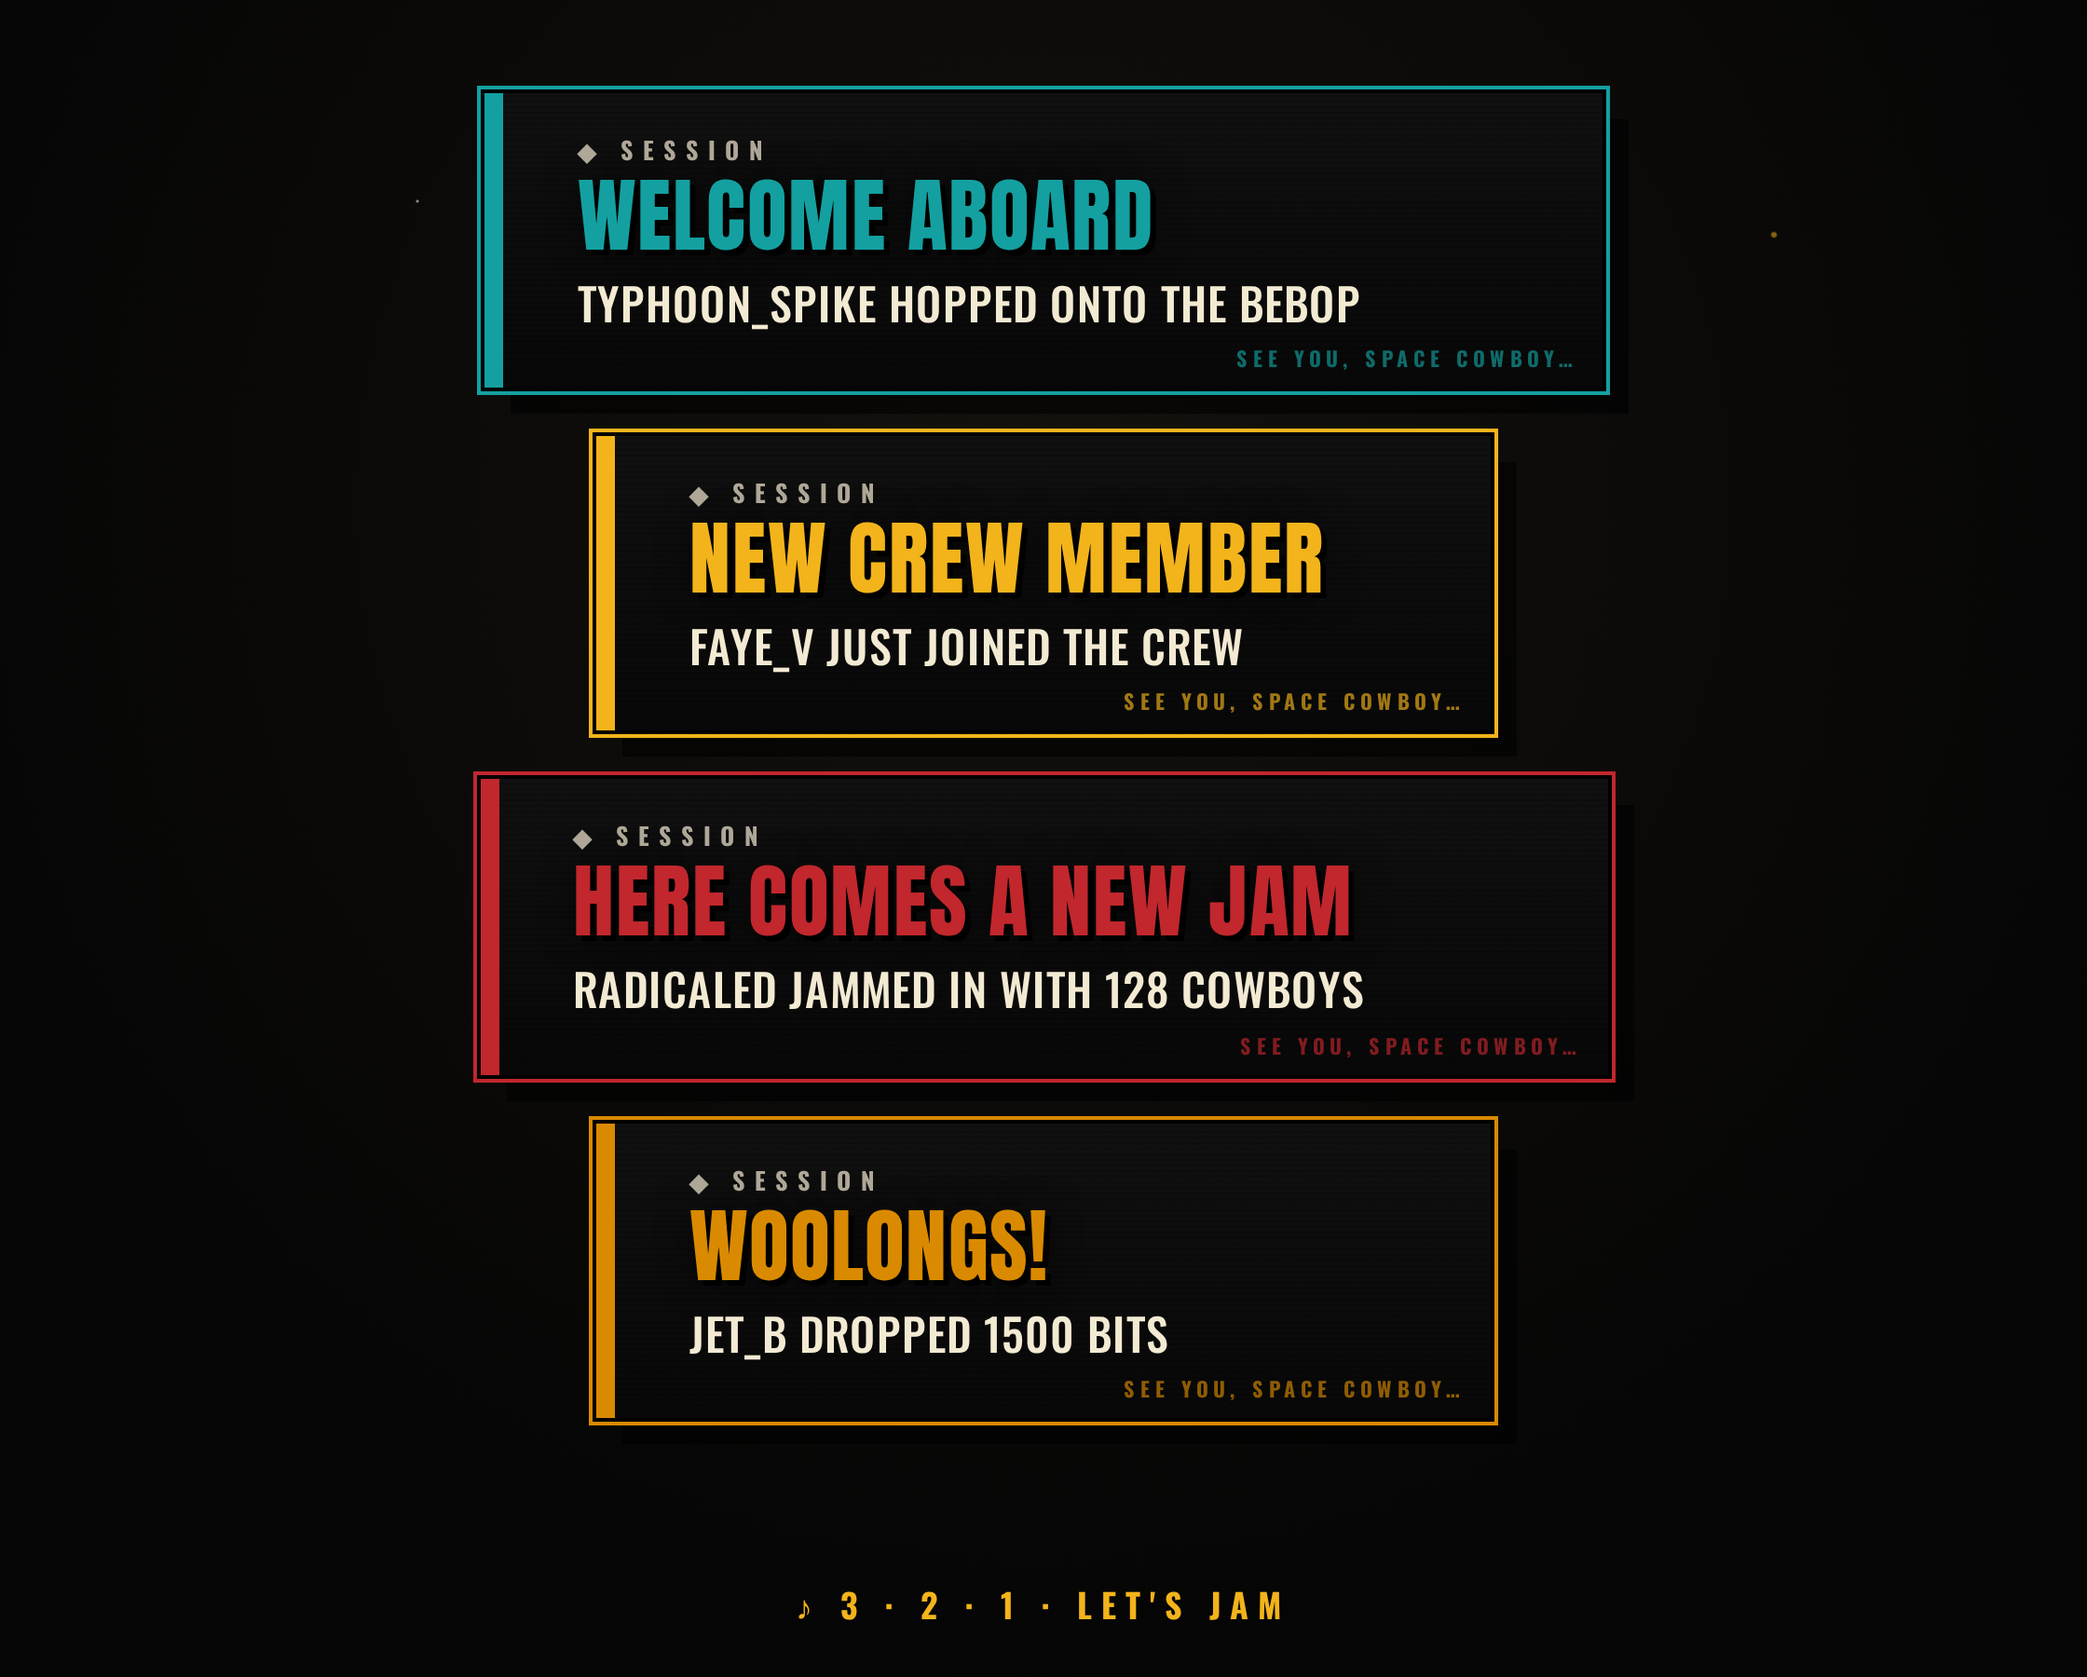
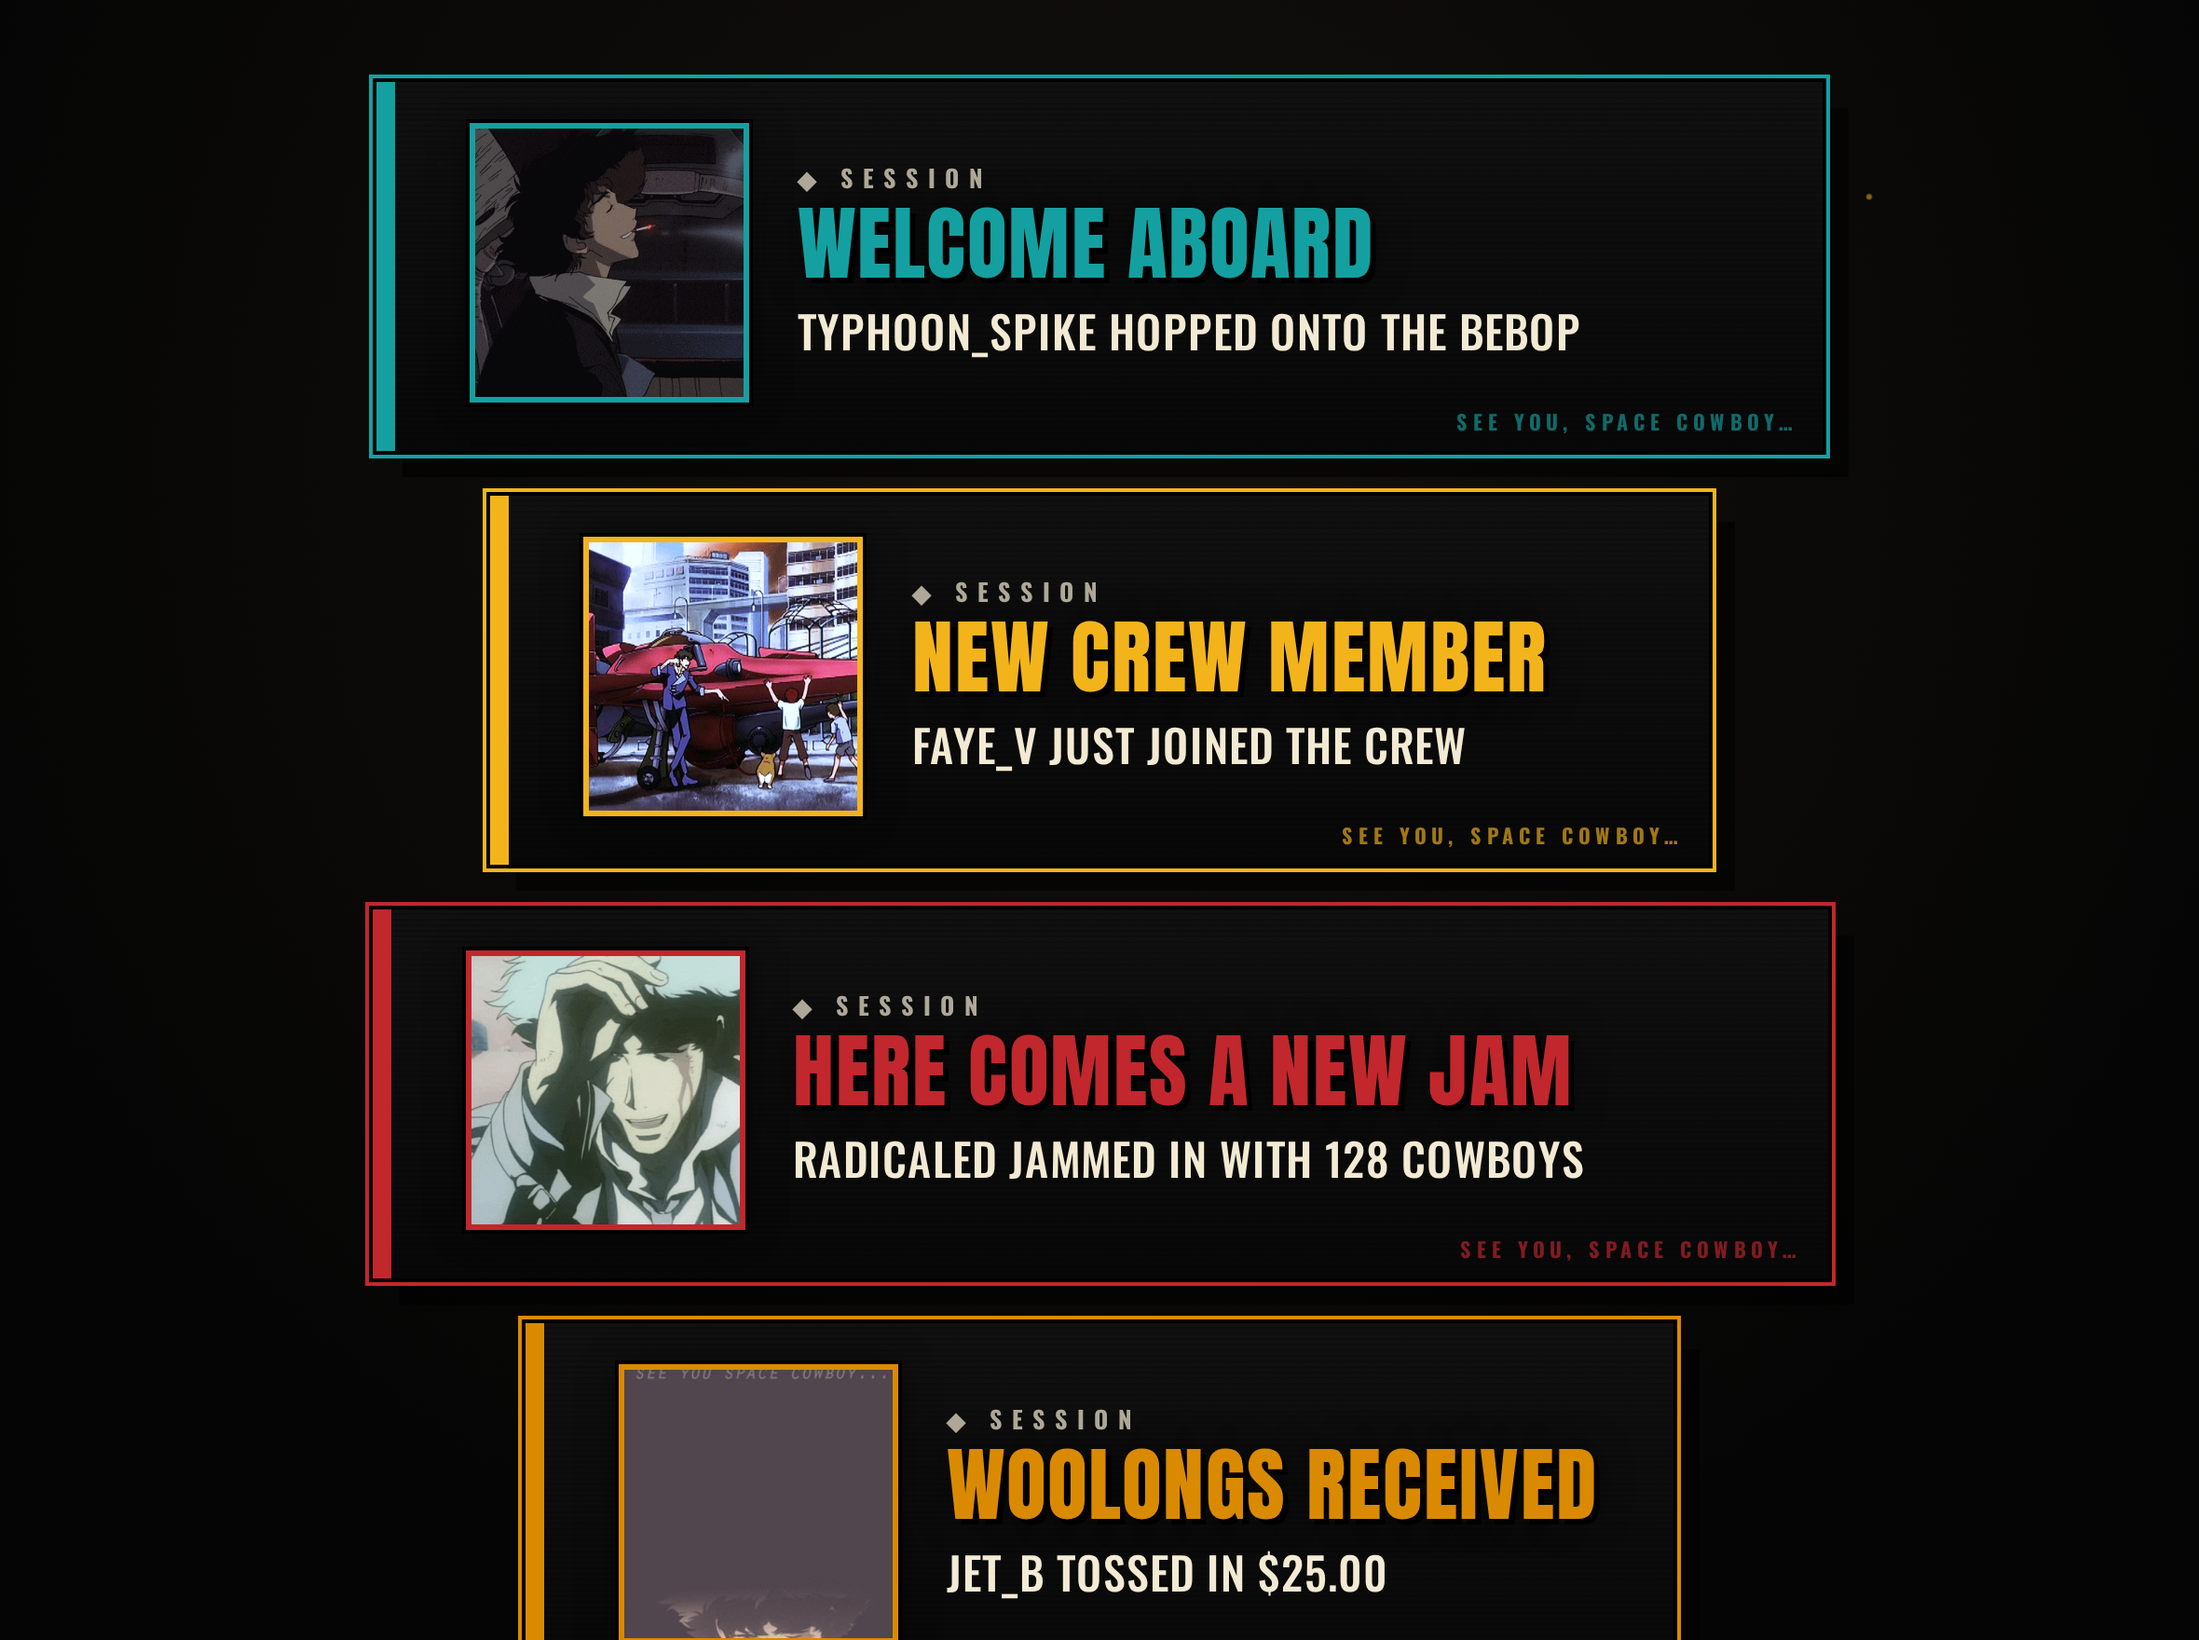
Add Cowboy Bebop GIF to each alert
- Per-alert gif field in config (hotlinked Giphy clips; no footage bundled)
- Render gif beside the title card, framed in the accent color
- Thematic mapping: Spike/lighter=follow, crew+ship=sub, whatever-happens=resub,
  Edward=gift, Spike-at-bar=bits, smirk=raid, 'see you space cowboy'=donation
- gifs/README + README copyright note; document swapping in local files
- Refresh preview.png

Changed region(s): [[0.1562, 0.0312, 0.8438, 1.0]]

diff --git a/obs-twitch-alerts/js/config.js b/obs-twitch-alerts/js/config.js
@@ -62,47 +62,59 @@ window.ALERT_CONFIG = {
    * ---------------------------------------------------------------------- */
   // Cowboy Bebop palette:
   //   saffron #f3b41b · blood red #c1272d · teal #14a0a0 · gold #d98a00
+  //
+  // gif: a Cowboy Bebop clip shown on the card. These default to hotlinked
+  //   Giphy URLs (no copyrighted footage stored in this repo). To use your
+  //   own files instead, drop them in the /gifs folder and set e.g.
+  //   gif: "gifs/follow.gif". Set gif: "" for no image.
   alerts: {
     follow: {
       title: "Welcome Aboard",
       message: "{name} hopped onto the Bebop",
       color: "#14a0a0",            // teal
+      gif: "https://media.giphy.com/media/4ilFRqgbzbx4c/giphy.gif", // Spike + lighter
       sound: "follow.mp3",
     },
     sub: {
       title: "New Crew Member",
       message: "{name} joined the crew",
       color: "#f3b41b",            // saffron
+      gif: "https://media.giphy.com/media/4MxLhxhOqCqYw/giphy.gif", // crew + ship
       sound: "sub.mp3",
     },
     resub: {
       title: "Still Rollin'",
       message: "{name} rode along {amount} months",
       color: "#f3b41b",            // saffron
+      gif: "https://media.giphy.com/media/QgwoSMw1mbpADGy5Gt/giphy.gif", // "whatever happens, happens"
       sound: "sub.mp3",
     },
     giftSub: {
       title: "Bounty Shared",
       message: "{name} gifted {amount} tickets aboard",
       color: "#c1272d",            // blood red
+      gif: "https://media.giphy.com/media/udhngZK2IFTc4/giphy.gif", // Edward dancing
       sound: "sub.mp3",
     },
     cheer: {
       title: "Woolongs!",
       message: "{name} dropped {amount} bits",
       color: "#d98a00",            // amber gold
+      gif: "https://media.giphy.com/media/5gK1hvwoutPnG/giphy.gif", // Spike at the bar
       sound: "cheer.mp3",
     },
     raid: {
       title: "Here Comes A New Jam",
       message: "{name} jammed in with {amount} cowboys",
       color: "#c1272d",            // blood red
+      gif: "https://media.giphy.com/media/b21HcSrrBu8pi/giphy.gif", // Spike smirk
       sound: "raid.mp3",
     },
     donation: {
       title: "Woolongs Received",
       message: "{name} tossed in {amount}",
       color: "#d98a00",            // amber gold
+      gif: "https://media.giphy.com/media/Te9ImVwQGht1S/giphy.gif", // "See you space cowboy"
       sound: "donation.mp3",
     },
   },

diff --git a/obs-twitch-alerts/css/style.css b/obs-twitch-alerts/css/style.css
@@ -57,9 +57,12 @@ html, body {
 .alert-card {
   --accent: var(--bb-yellow);
   position: relative;
+  display: flex;
+  align-items: center;
+  gap: 26px;
   min-width: 480px;
   max-width: 82vw;
-  padding: 24px 40px 30px;
+  padding: 22px 40px 26px;
   background:
     linear-gradient(180deg, rgba(17,16,16,.97), rgba(7,7,7,.97));
   color: var(--bb-cream);
@@ -107,6 +110,21 @@ html, body {
   color: var(--accent);
   opacity: .65;
 }
+
+/* the Cowboy Bebop clip */
+.alert-gif {
+  position: relative;
+  z-index: 1;
+  width: 150px;
+  height: 150px;
+  flex-shrink: 0;
+  object-fit: cover;
+  border: 3px solid var(--accent);
+  box-shadow: 0 0 0 2px #000, 0 0 16px rgba(0,0,0,.6);
+  background: #000;
+}
+
+.alert-text { position: relative; z-index: 1; flex: 1; }
 
 /* small "session" kicker above the title */
 .alert-title {

diff --git a/obs-twitch-alerts/js/alerts.js b/obs-twitch-alerts/js/alerts.js
@@ -52,9 +52,15 @@
     const el = document.createElement("div");
     el.className = "alert-card";
     el.style.setProperty("--accent", style.color || "#9146FF");
+    const gifHtml = style.gif
+      ? `<img class="alert-gif" src="${escapeHtml(style.gif)}" alt="" />`
+      : "";
     el.innerHTML = `
-      <div class="alert-title">${escapeHtml(style.title)}</div>
-      <div class="alert-message">${escapeHtml(fmt(style.message, data))}</div>
+      ${gifHtml}
+      <div class="alert-text">
+        <div class="alert-title">${escapeHtml(style.title)}</div>
+        <div class="alert-message">${escapeHtml(fmt(style.message, data))}</div>
+      </div>
     `;
 
     root.appendChild(el);

diff --git a/obs-twitch-alerts/README.md b/obs-twitch-alerts/README.md
@@ -2,9 +2,16 @@
 
 A free, self-hosted alert overlay for **OBS Studio**, styled after the
 **Cowboy Bebop** title cards: jazz-noir black panels, saffron / blood-red / teal
-accents, film grain + scanlines, condensed display type, and a
-*"See you, space cowboy…"* footer. Messages use Bebop flavor (woolongs, the crew,
-jamming in) — all editable in `js/config.js`. Shows animated, sound‑enabled
+accents, film grain + scanlines, condensed display type, a per-alert **GIF from
+the show**, and a *"See you, space cowboy…"* footer. Messages use Bebop flavor
+(woolongs, the crew, jamming in) — all editable in `js/config.js`.
+
+> **GIFs:** each alert shows a Cowboy Bebop clip (Spike, the crew, Edward, etc.).
+> By default these are **hotlinked from Giphy** — no copyrighted footage is stored
+> in this repo. To use your own clips, drop files in `gifs/` and set
+> `gif: "gifs/yourfile.gif"` in `js/config.js`. See `gifs/README.txt`.
+> *(Cowboy Bebop © Sunrise / Bandai Namco; short clips in a personal overlay are
+> common but the footage isn't yours — use at your discretion.)* Shows animated, sound‑enabled
 alerts for **follows, subscriptions, resubs, gifted subs, bits/cheers, raids,
 and donations** — no Streamlabs/StreamElements overlay account required (StreamElements
 is used only as an optional source for donation/tip events).
